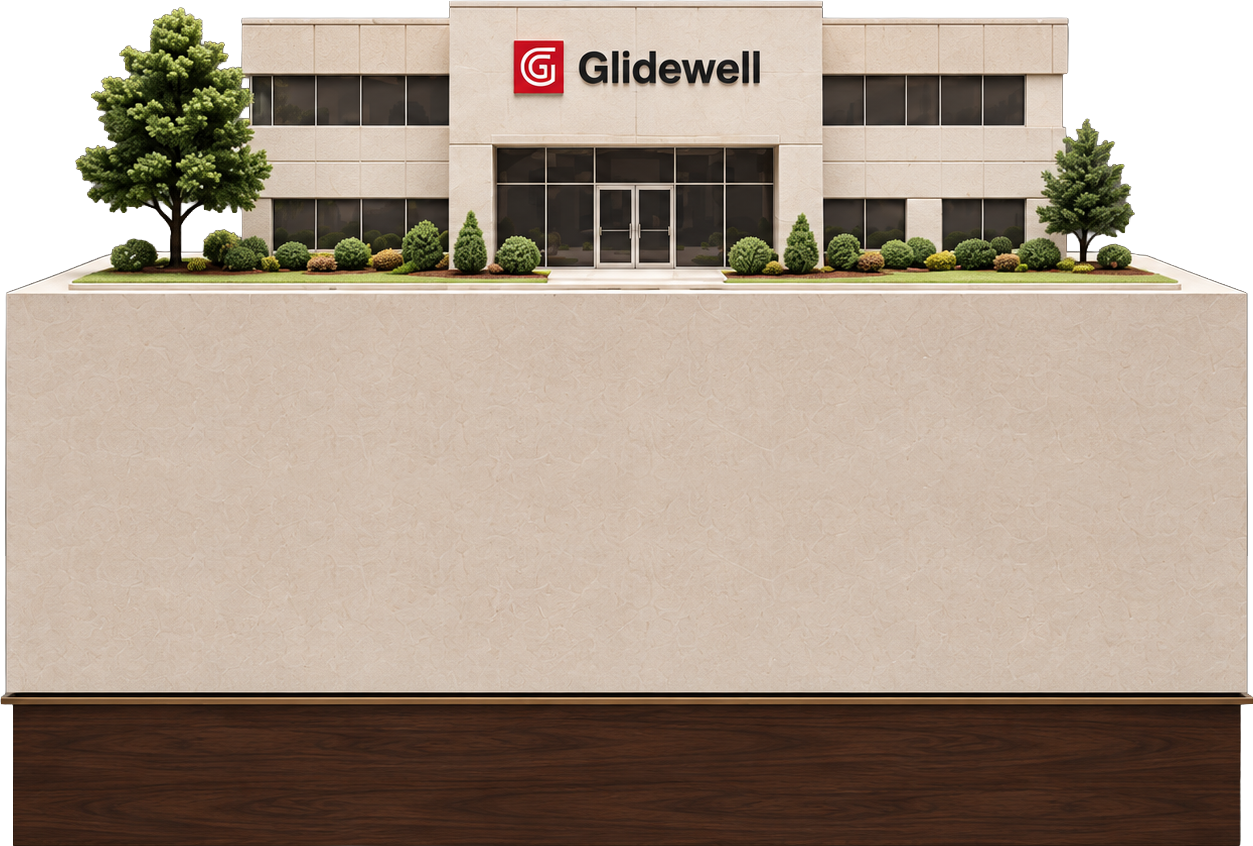
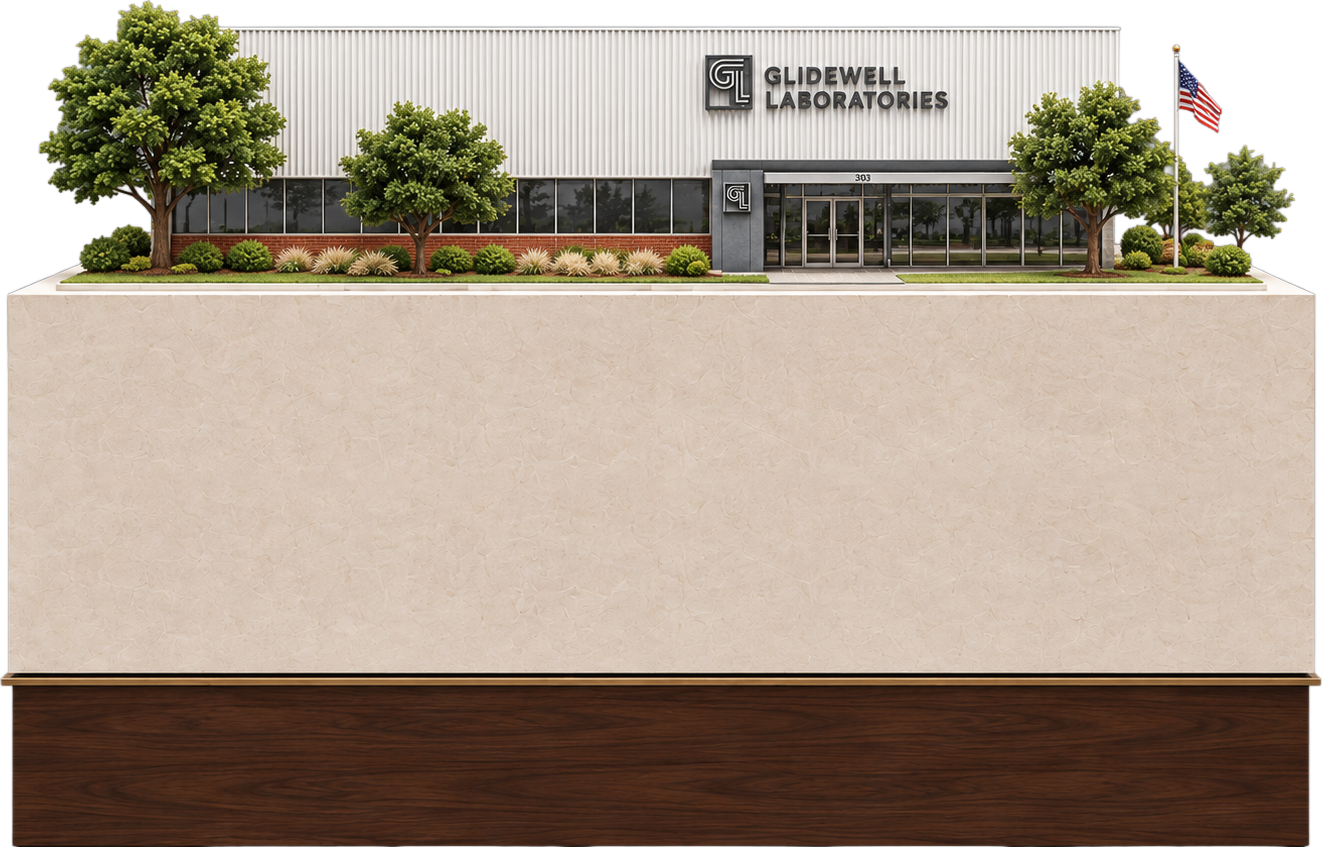
Expo: the plant behind the nine labs of 1979 is Eldar's new render (Artefacts/Mainbuilding.png) — the low Glidewell Laboratories building on its stone; the van's ledge re-measured on the new cut-out, asset version bumped.

diff --git a/expo/expo.html b/expo/expo.html
@@ -6307,9 +6307,9 @@ function drawMapWall(t){
         const cw = wG * 0.135, ch = cw * car.h / car.w;
         const run = Math.max(0, 520 * kG * SS - cw / 2);
         const cxCar = px(mid, kG) + v2 * 2 * run;
-        /* the lip: 292 of the render's 846 rows down, where the ledge the van
-           drives on turns into the face of the plinth */
-        const yLip = yFootG - hG * 0.6548;
+        /* the lip: 289 of the render's 847 rows down, where the ledge the van
+           drives on turns into the face of the plinth (Mainbuilding.png, 2026-09-11) */
+        const yLip = yFootG - hG * 0.6588;
         if (cxCar > -cw && cxCar < W + cw){
           contactShadow(cxCar, yLip, cw * 0.86, 0.34);
           ctx.drawImage(spriteMip(car, cw, ch), cxCar - cw / 2, yLip - ch, cw, ch);
@@ -8416,7 +8416,7 @@ const PHOTO_TEX = {};
 /* the skin's files are re-cut under the same names as the room is tuned, so a
    browser that has already seen one keeps serving it back; every photo asset
    carries the build stamp and a new cut is fetched the moment it exists */
-const ASSET_V = '20260910-seam1';
+const ASSET_V = '20260911-gmain';
 const vurl = p => p + (p.includes('?') ? '&' : '?') + 'v=' + ASSET_V;
 /* EVERY PHOTOGRAPH IS SERVED AS WEBP. The names below still say .png and .jpg
    because that is what the file in the studio is; on the wire it is the webp
